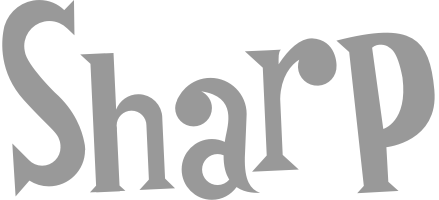
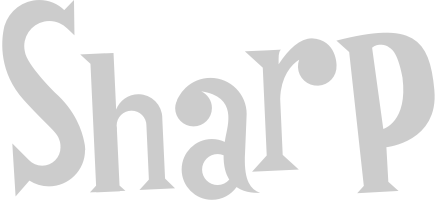
foot contrast 999999 to cccccc

diff --git a/css/style.default.css b/css/style.default.css
@@ -180,18 +180,18 @@ ul, li {
 }
 #Foot a {
 	text-decoration: none;
-	color: #999999;
+	color: #cccccc;
 	
 }
 #Foot a:hover {
 	text-decoration: none;
-	color: #999999;
+	color: #cccccc;
 	border-bottom: 2px solid #999999;
 }
 #pageFooter {
 	position:relative;
 	background-color:#555555;
-	color: #999999;
+	color: #cccccc;
 	height:auto;
 	padding-bottom: 2.5rem;	
 }
